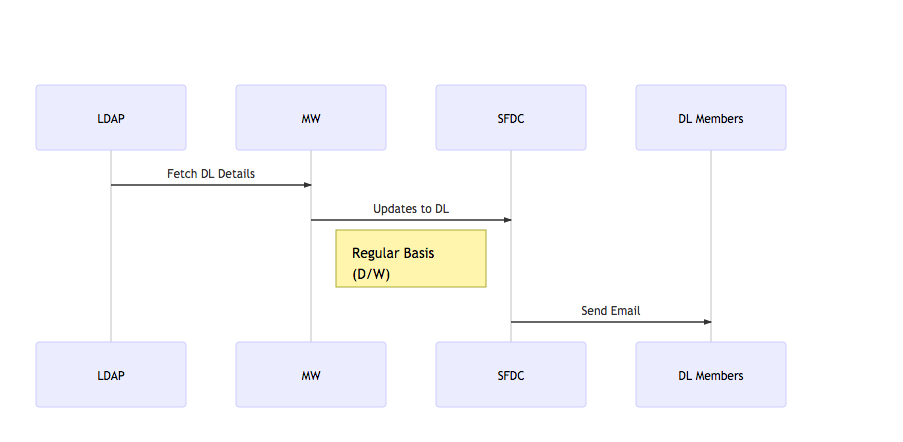
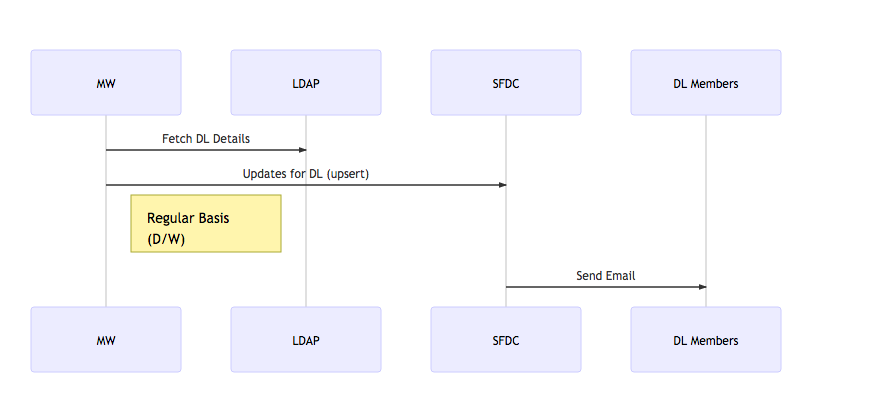
seq dwg added

diff --git a/README.md b/README.md
@@ -12,4 +12,6 @@ Email Template Id is the template you want to use for this email
 
 
 ### Sequence Diagram
-![Sequence Diagram](https://github.com/mohan-chinnappan-n/sfdc-mass-email/blob/master/email-seq-dwg.png)
+![Sequence Diagram  ](https://github.com/mohan-chinnappan-n/sfdc-mass-email/blob/master/email-seq-dwg.png)
+
+MW: Middleware
